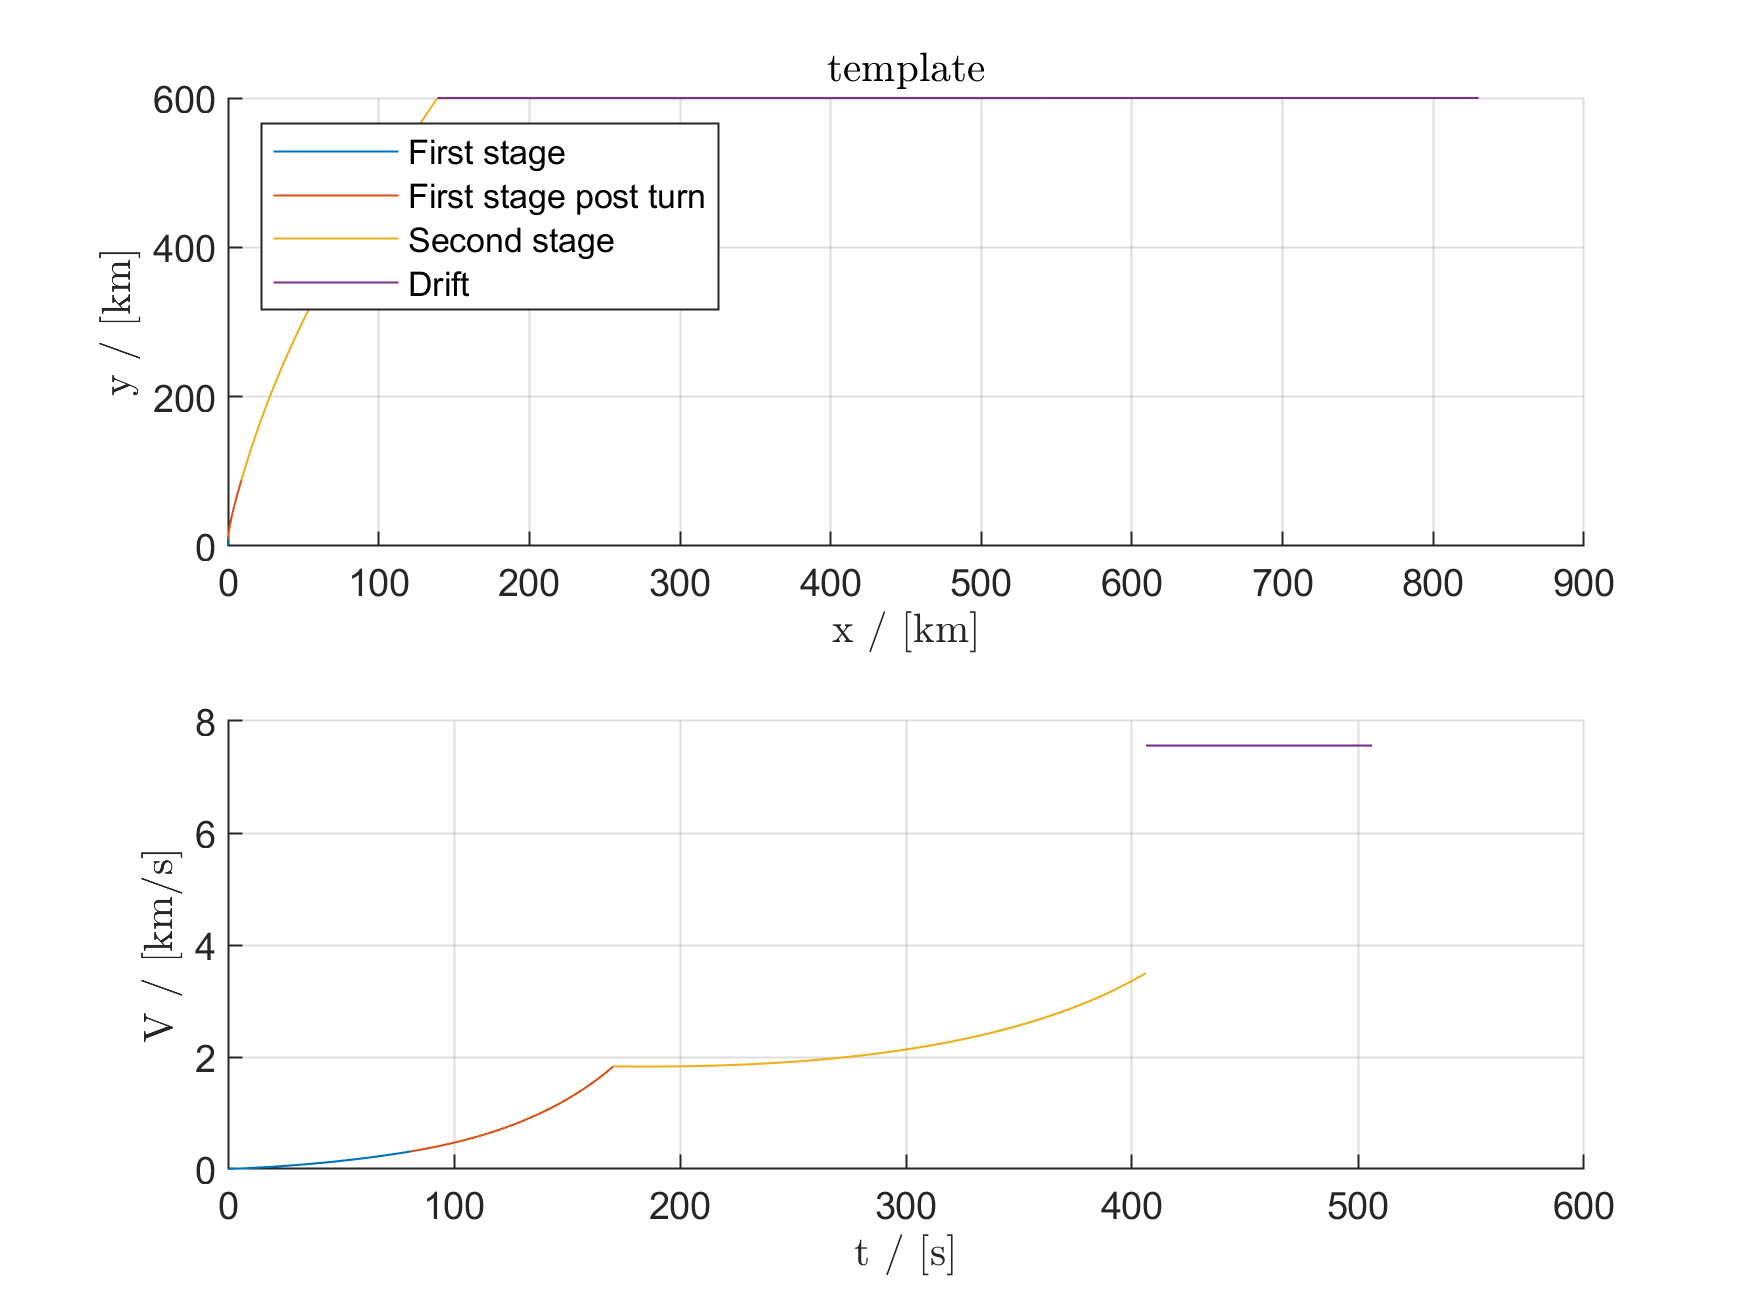
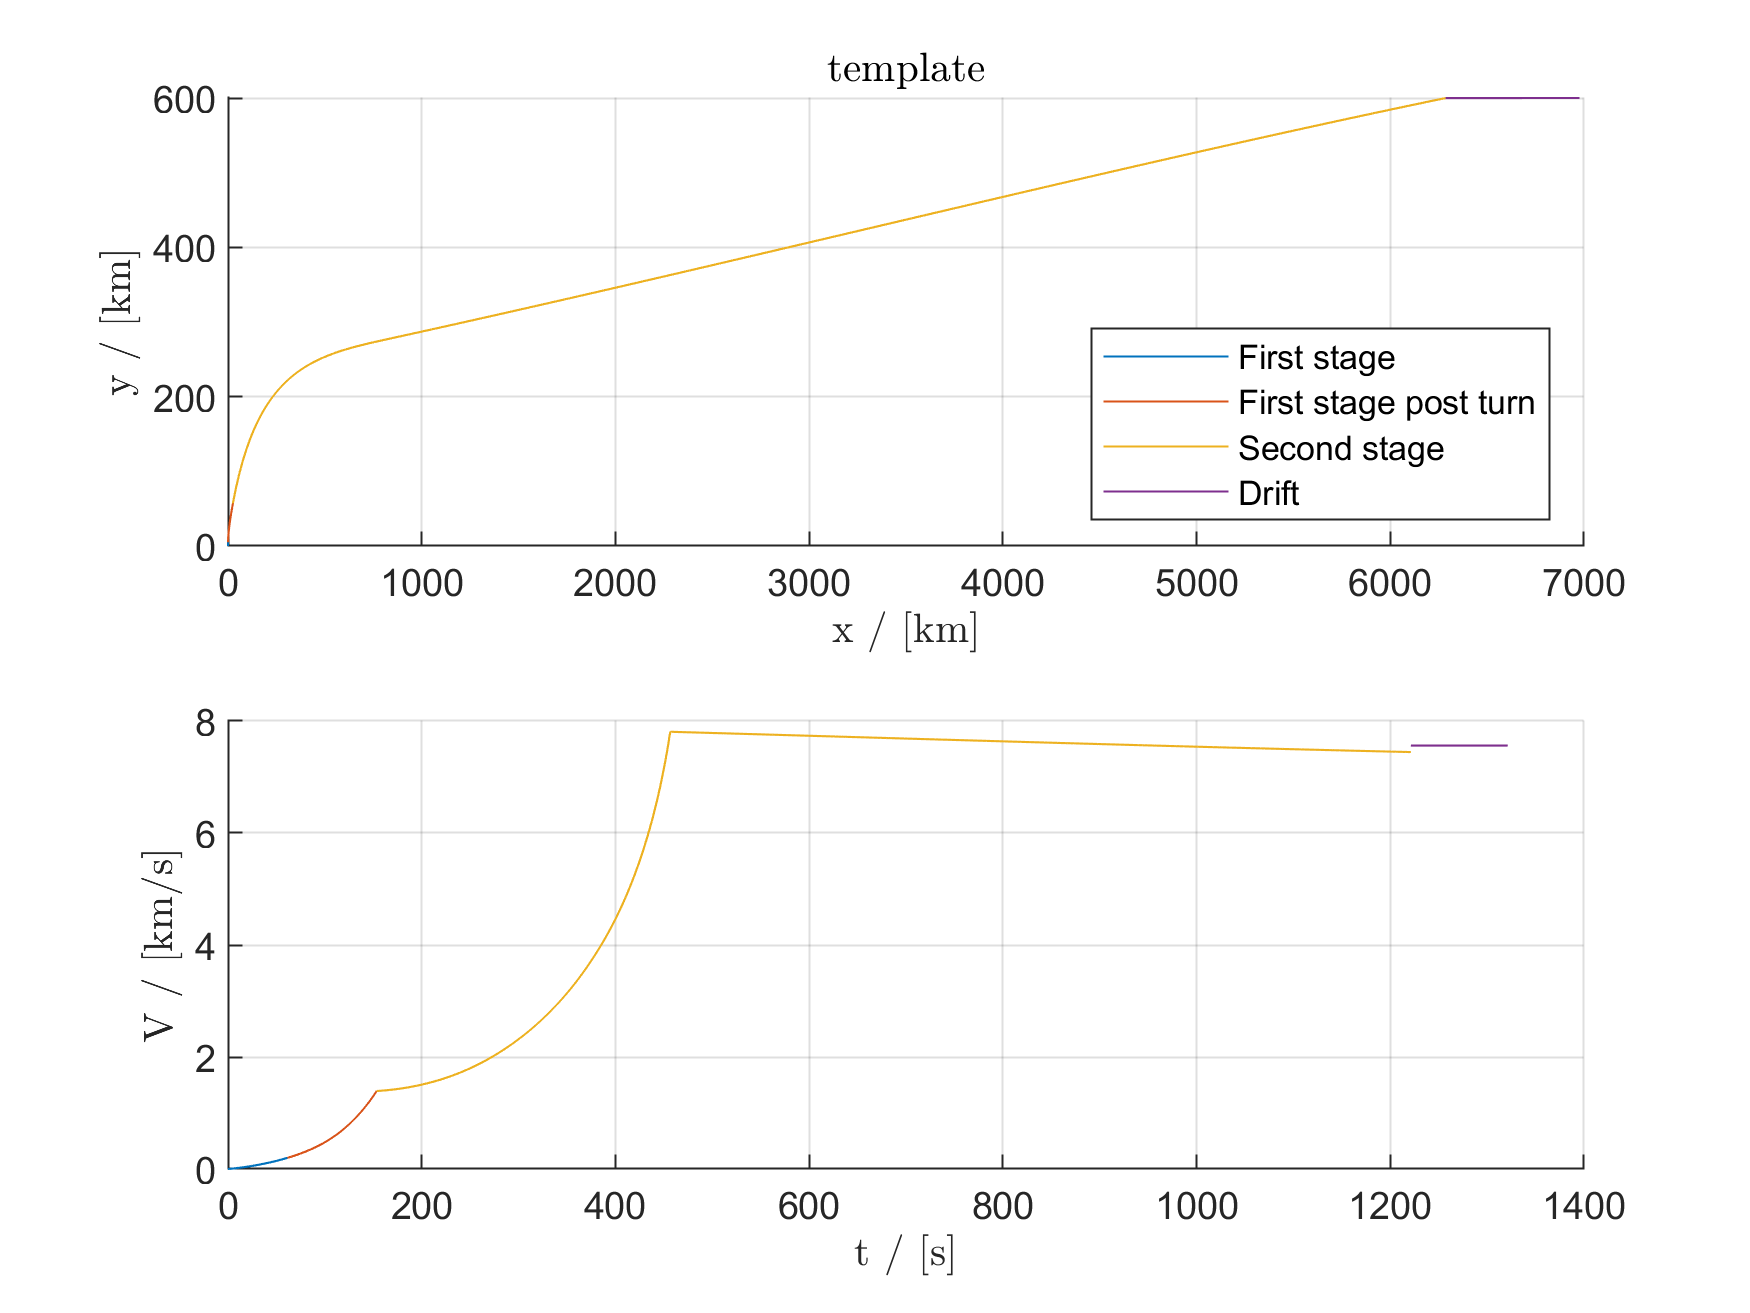
Solved apoapsis estimation and fuel left
The second stage now successfully intersects the correct altitude with
a low gamma.

Also one can now specify the amount of fuel left in stage 1 for reetry.

diff --git a/simulate_two_stage_rocket.m b/simulate_two_stage_rocket.m
@@ -1,4 +1,4 @@
-function simulate_two_stage_rocket(stage_1, stage_2, burn_rates, ...
+function simulate_two_stage_rocket(stage_1, stage_2, burn_rates, fuel_left_in_first_stage,...
         programmed_turn_height, programmed_turn_angle, ...
         target_altitude, ...
         drift_duration, plot_name)
@@ -45,7 +45,7 @@ function simulate_two_stage_rocket(stage_1, stage_2, burn_rates, ...
     steer_1_to_programmed_turn = steer_1_to_programmed_turn.set_constant_burn_rate(burn_rates(1));
 
     steer_1_after_programmed_turn = SteeringModule(); % First stage after programmed turn until burnout
-    steer_1_after_programmed_turn = steer_1_after_programmed_turn.set_break_at_burnout();
+    steer_1_after_programmed_turn = steer_1_after_programmed_turn.set_break_at_burnout(fuel_left_in_first_stage);
     steer_1_after_programmed_turn = steer_1_after_programmed_turn.set_constant_burn_rate(burn_rates(2));
 
     % TODO: Warn if target height cant be reached
@@ -63,53 +63,66 @@ function simulate_two_stage_rocket(stage_1, stage_2, burn_rates, ...
     number_of_trajectories = 4;
     trajectories = cell(number_of_trajectories, 2);
 
-    % First stage until turn
+    % --- First stage until turn
+    % Initial conditions
     t_0 = 0;
     u_0 = [0.1, 90*pi/180, 0.1, 0.1, stage_1.m_0]';
+    % Simulate
     [t_list, u_list] = solve_trajectory(t_0, u_0, stage_1, steer_1_to_programmed_turn); 
+    % Store data
     trajectories(1,:) = {t_list, u_list};
-    % Print information
-    fprintf("Programmed turn (%.1f degrees):\n", programmed_turn_angle*180/pi); 
-    print_state(u_list(end,:))
-    fprintf("\tm_p_left = %.0f kg (%.1f %%)\n", stage_1.m_p-(stage_1.m_0-u_list(end,5)), 100*(stage_1.m_p-(stage_1.m_0-u_list(end,5)))/stage_1.m_p)
     
-    % Turn first stage and simulate gravity turn
+    % --- Turn first stage and simulate gravity turn until burnout (or close to)
+    % Initial conditions, new angle
     t_0 = t_list(end);
     u_0 = u_list(end,:);
-    stage_1_current = stage_1.remove_used_propellant(stage_1.m_0-u_0(5));
     u_0(2) = u_0(2) + programmed_turn_angle;
-    [t_list, u_list] = solve_trajectory(t_0, u_0, stage_1_current, steer_1_after_programmed_turn); 
+    % Print information
+    fprintf("Programmed turn (%.1f degrees):\n", -programmed_turn_angle*180/pi); 
+    print_state(u_0(end,:))
+    fprintf("\tm_p_left = %.0f kg (%.1f %%)\n", stage_1.m_p-(stage_1.m_0-u_list(end,5)), 100*(stage_1.m_p-(stage_1.m_0-u_list(end,5)))/stage_1.m_p)
+    % Simulate
+    [t_list, u_list] = solve_trajectory(t_0, u_0, stage_1, steer_1_after_programmed_turn); 
+    % Store data
     trajectories(2,:) = {t_list, u_list};
     
-    % Separation, simulate stage 2 in gravity turn until burnout
+    % --- Separation, simulate stage 2 in gravity turn until burnout (or close to)
+    % Initial conditions
     t_0 = t_list(end);
     u_0 = u_list(end,:);
     u_0(5) = stage_2.m_0;
-    fprintf("Stage 1 burnout, stage 2 separated:\n");
+    % Print information
+    fprintf("Stage separation:\n");
     print_state(u_0);
+    fprintf("\tm_p_left (stage 1) = %.0f kg (%.2f %%)\n", stage_1.m_p-(stage_1.m_0-u_list(end,5)), 100*(stage_1.m_p-(stage_1.m_0-u_list(end,5)))/stage_1.m_p)
+    % Simulatie
     [t_list, u_list] = solve_trajectory(t_0, u_0, stage_2, steer_2_reach_target_height); 
+    % Store data
     trajectories(3,:) = {t_list, u_list};
-    
+    % Print information (at max height before burn)
     fprintf("Stage 2 reached target height:\n")
     print_state(u_list(end,:));
     fprintf("\tm_p_left = %.0f kg (%.1f %%)\n", stage_2.m_p-(stage_2.m_0-u_list(end,5)), 100*(stage_2.m_p-(stage_2.m_0-u_list(end,5)))/stage_2.m_p)
-    % Make instant delta V to reach target trajectory
-    v = u_list(end, 1);
+    
+    % --- Delta V to right orbital speed, simulate target orbit after burn
+    % Instant delta V to reach target trajectory
+    V = u_list(end, 1);
     gamma = u_list(end, 2);
-    current_velocity = [v*cos(gamma), v*sin(gamma)];
+    current_velocity = [V*cos(gamma), V*sin(gamma)];
     target_velocity = [sqrt(mu/(target_altitude+R_e)), 0];
-    stage_2_current = stage_2.remove_used_propellant(stage_2.m_0-u_list(end,5));
-    m_p_used = propellant_for_velocity_change(current_velocity, target_velocity, stage_2_current);
-    stage_2_current = stage_2.remove_used_propellant(m_p_used);
+    current_mass = u_list(end,5);
+    m_p_used = propellant_for_velocity_change(current_velocity, target_velocity, current_mass, stage_2.V_eff);
     % Update state
     t_0 = t_list(end);
     u_0 = u_list(end,:);
     u_0(1) = norm(target_velocity);
     u_0(2) = 0;
     u_0(5) = u_0(5)-m_p_used;
-    % Separation, simulate stage 2 drift after burnout
-    [t_list, u_list] = solve_trajectory(t_0, u_0, stage_2_current, steer_2_drift); 
+    % Simulate
+    [t_list, u_list] = solve_trajectory(t_0, u_0, stage_2, steer_2_drift); 
+    % Store data
     trajectories(4,:) = {t_list, u_list};
+    % Print information
     fprintf("Circularize orbit:\n\tdelta_V = %.3f km/s \n\tm_p_burnt = %.0f kg \n", norm(current_velocity-target_velocity)/1000, m_p_used)
     fprintf("Now in correct orbit:\n")
     print_state(u_0)

diff --git a/SteeringModule.m b/SteeringModule.m
@@ -20,6 +20,7 @@ classdef SteeringModule < handle
         
         break_height = 0% The height to break ode solver
         break_at_burnout = false % Indicates that break should occur at burnout
+        fuel_left_at_separation = 0 % The relative amount of fuel left in the stage at separation (0-0.1)
         break_duration = 0% The duration from start until ode break in seconds
     end
     
@@ -54,10 +55,11 @@ classdef SteeringModule < handle
         end
 
         function rate = burn_rate_to_reach_target_apogee(obj, u)
-            marginal = 10000;
+            marginal = 1000;
             e = (obj.target_apogee + marginal - obj.estimated_apogee(u));
             
-            relative_error = e/(2*marginal);
+            close_apogee_distance = 10000;
+            relative_error = e/(close_apogee_distance);
             
             if relative_error >= 1
                 rate = obj.max_burn_rate;
@@ -69,16 +71,16 @@ classdef SteeringModule < handle
         end
         
         function apogee = estimated_apogee(~, u)
-           mu = 3986000E9;
+           mu = 398600E9;
            R_e = 6371000;
            V = u(1);
            gamma = u(2);
            H = u(4);
            
-           E_current = V^2/2 - mu*(R_e + H);
+           E_current = V^2/2 - mu/(R_e + H);
            H_current = (R_e+H)*V*cos(gamma);
            
-           apogee = (-2*mu+sqrt((2*mu)^2 + 8*E_current*H_current^2)) / (4*E_current);
+           apogee = (-2*mu-sqrt((2*mu)^2 + 8*E_current*H_current^2)) / (4*E_current);
         end
         
         % --- Break paramters
@@ -88,9 +90,13 @@ classdef SteeringModule < handle
            obj.break_height = height; 
         end
         
-        function obj = set_break_at_burnout(obj)
+        function obj = set_break_at_burnout(obj, fuel_left_at_separation)
+            if nargin < 2
+                fuel_left_at_separation = 0;
+            end
             obj = obj.null_break_properties();
             obj.break_at_burnout = true;
+            obj.fuel_left_at_separation = fuel_left_at_separation;
         end
         
         function obj = set_break_after_duration(obj, dur)

diff --git a/solve_trajectory.m b/solve_trajectory.m
@@ -1,4 +1,4 @@
-function [t, u_list, delta_V_array] = solve_trajectory(t_0, u_0, stage, steering_module)
+function [t, u_list] = solve_trajectory(t_0, u_0, stage, steering_module)
 %solve_trajectory Finds the gravity turn trajectory of a stage with 
 %   Solves the gravity turn ODE of the given Stage with a corresponding
 %   SteeringModule at specified initial conditions.
@@ -8,23 +8,7 @@ function [t, u_list, delta_V_array] = solve_trajectory(t_0, u_0, stage, steering
     load rho_by_kilometer.mat rho_by_kilometer        
     
     % Timespan
-    %t_span = [t_0, t_0+stage.m_p/steering_module.burn_rate(u_0)];
-    t_span = linspace(t_0, t_0+10000, 10001);
-    
-    % Data allocation 
-    % Delta V contains thrust, gravity drag, air drag delta Vs
-    delta_V_array = cell(3,1);
-    
-% TODO: Make solution for variable burn rate (calculate for large
-% timespan and then find the t range until all propelant has been
-% used) Below is a start.
-
-%     if steering_module.burn_rate_is_constant
-%         t_span = [t_0, t_0+stage.m_p/steering_module.get_burn_rate(u_0)];
-%     else
-%         t_span = [t_0, t_0+1000];
-
-%     end
+    t_span = linspace(t_0, t_0+10000, 10000001);
     
     % Solver
     if steering_module.break_at_burnout
@@ -40,8 +24,10 @@ function [t, u_list, delta_V_array] = solve_trajectory(t_0, u_0, stage, steering
     %% ode45 break functions
     
     function [value, terminate, direction] = break_event_burn_out(t, u)
-        % Terminate if the value is 0 or below 
-        value = (u(5) <= stage.m_0 - stage.m_p)-.5; 
+        % Terminate if the value is 0 or below
+        fuel_left = stage.m_p-(stage.m_0-u(5));
+        relative_fuel_left = fuel_left / stage.m_p;
+        value = (relative_fuel_left <= steering_module.fuel_left_at_separation)-.5; 
         terminate = 1;
         direction  = 0;
     end

diff --git a/template.m b/template.m
@@ -34,16 +34,24 @@ target_altitude = 600000;
 stage_1 = Stage(117746, 87710, 2600, (3./2)^2*pi, 0.5);
 stage_2 = Stage(21149, 18453, 2943, (1.9/2)^2*pi, 0.5);
 
-programmed_turn_height = 10000;
-programmed_turn_angle = -2*pi/180;
+programmed_turn_height = 5000;
+programmed_turn_angle = -5*pi/180;
 burn_rates = [514.3, 514.3, 64.1843]; % First stage before turn, first after turn, max of second stage
+fuel_left_in_first_stage = 0.1; % At separation
 
 %% Compute
 
 drift_duration = 100; % Seconds to plot the second stage in the right orbit.
 plot_name = "template";
 
-simulate_two_stage_rocket(stage_1, stage_2, burn_rates, ...
+simulate_two_stage_rocket(stage_1, stage_2, burn_rates, fuel_left_in_first_stage, ...
         programmed_turn_height, programmed_turn_angle, ...
         target_altitude, ...
         drift_duration, plot_name)
+    
+    
+    
+    
+    
+    
+    

diff --git a/propellant_for_velocity_change.m b/propellant_for_velocity_change.m
@@ -1,9 +1,9 @@
-function m_p_used = propellant_for_velocity_change(v_initial, v_target, stage)
+function m_p_used = propellant_for_velocity_change(v_initial, v_target, m_0, V_eff)
 %propelant_for_velocity_change Calculates m_p required for instant delta V
 %   Given a Stage object with v_initial as initial velocity this function
 %   calculates the propellant required to reach the target velocity
 %   v_target.
     delta_V_required = norm(v_initial - v_target);
-    m_p_used = stage.m_0*(1-exp(-delta_V_required/stage.V_eff));
+    m_p_used = m_0*(1-exp(-delta_V_required/V_eff));
 end
 

diff --git a/visualize.m b/visualize.m
@@ -33,7 +33,7 @@ function visualize(number_of_stages, stage_trajectories, legends, plot_name)
     
     subplot(2,1,1)
     title(plot_name)
-    legend(legends, 'location', 'northwest', 'fontname', 'CMU Serif')
+    legend(legends, 'location', 'southeast', 'fontname', 'CMU Serif')
 
     print(plot_name+".png", "-dpng", "-r300")
 end
